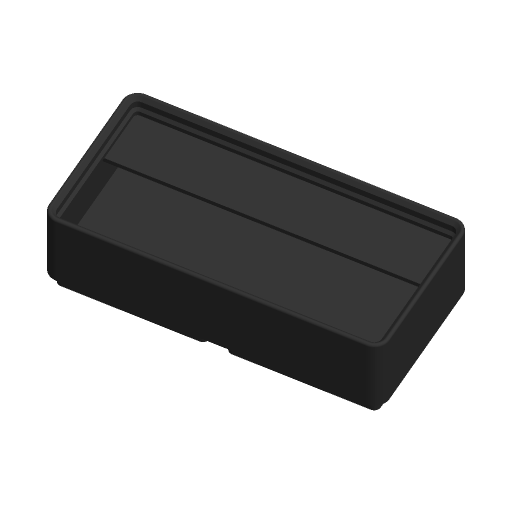
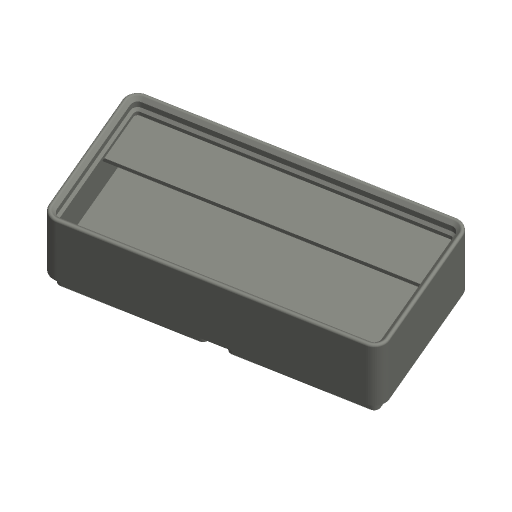
fix(models): gridfinity-bin fits the bed and shrinks long labels instead of clipping
- units_x/units_y went to 8 (335.5 mm), past the H2C's 300 x 320 mm
  two-nozzle area; cap at 7 (293.5 mm).
- A label longer than the character-count estimate was clipped at the tab
  edge (24 W's lost 6 letters). Fit it exactly with a shrink-only resize.
- Labelled dropdown options, mm on the wall caption, a mid-grey default so
  the catalogue thumbnail is not near-black.
- verify.sh: fails on OpenSCAD warnings, checks the bed fit, that the label
  stays on the tab and that a long label keeps every letter.

Claude-Session: https://claude.ai/code/session_01X17nidom5KxL41d2nZa3rs

diff --git a/models/gridfinity-bin/README.md b/models/gridfinity-bin/README.md
@@ -19,8 +19,8 @@ and in ScadBuddy.
 
 | Parameter | Default | What it does |
 |---|---|---|
-| `units_x` | `2` | Width in grid units, 1–8. The bin is `units_x × 42 − 0.5` mm wide. |
-| `units_y` | `1` | Depth in grid units, 1–8. The bin is `units_y × 42 − 0.5` mm deep. |
+| `units_x` | `2` | Width in grid units, 1–7 (7 units is 293.5 mm, the most that fits the H2C's 300 mm two-nozzle width). The bin is `units_x × 42 − 0.5` mm wide. |
+| `units_y` | `1` | Depth in grid units, 1–7. The bin is `units_y × 42 − 0.5` mm deep. |
 | `height_units` | `3` | Height in 7 mm units, 2–12, from the bottom of the feet to the top of the wall. The stacking lip adds 3.55 mm on top. |
 
 ### Features
@@ -42,14 +42,14 @@ and in ScadBuddy.
 | Parameter | Default | What it does |
 |---|---|---|
 | `label_text` | *(empty)* | Text inlaid 0.6 mm into the back-left label tab, up to 24 characters. Empty means no label part. |
-| `label_size` | `6` | Letter height in mm. A label that would not fit the tab is shrunk to fit (estimated from the character count); anything still too wide is clipped at the tab edge. |
+| `label_size` | `6` | Letter height in mm. A label too wide for the tab is shrunk uniformly until it fits; a short one is left at this size. |
 | `font` | `DejaVu Sans:style=Bold` | Typeface. ScadBuddy fills this dropdown from the fonts installed in the container (`// font`). |
 
 ### Colors
 
 | Parameter | Default | What it does |
 |---|---|---|
-| `bin_color` | `#3A3A3A` | The bin. |
+| `bin_color` | `#8E9089` | The bin. |
 | `label_color` | `#F2F2F2` | The inlaid label. |
 
 ## Colours and extruders
@@ -120,8 +120,8 @@ The whole bin is built without `minkowski`: rounded rectangles are
 `offset()`s of squares, the stepped foot profile is a stack of
 rounded-rectangle frustums written as polyhedra, and the lip is its 2D profile
 swept round the corners with `rotate_extrude` and along the sides with
-`linear_extrude`. An 8 × 8 × 12 ultralight bin with 64 compartments and
-magnets renders in about 1.6 s.
+`linear_extrude`. A 7 × 7 × 12 ultralight bin with 64 compartments and
+magnets renders in about 1.3 s.
 
 ## Verifying
 
@@ -129,20 +129,24 @@ magnets renders in about 1.6 s.
 ./verify.sh
 ```
 
-Renders the defaults and eight variations (label, divided, left tab, no tab,
-magnets + screws, ultralight, no lip at 1 × 1 × 2, and the 8 × 8 × 12 maximum)
+Renders the defaults and ten variations (label, divided, left tab, no tab,
+magnets + screws, ultralight, no lip at 1 × 1 × 2, the 7 × 7 × 12 maximum, and
+two labels too long for their tab)
 in `scadbuddy-verify:local`, building it from `openscad/openscad:dev` with the
 image's font packages when it is missing. For each render it checks:
 
+- no OpenSCAD warnings;
 - one non-empty material, or two when a label is expected, and nothing on
   `Default`;
 - the bounding box is exactly `units × 42 − 0.5` in X and Y and
   `height_units × 7` (+ 3.551 with the lip) in Z, sitting on z = 0;
 - the z = 0 footprint is `(n − 1) × 42 + 35.6` mm — the foot bottoms;
-- the label's exposed face is the tab top;
+- the bin fits the H2C bed (300 × 320 mm with both nozzles);
+- the label's exposed face is the tab top, it stays inside the tab's flat
+  top, and a long label keeps every letter (shrunk, never clipped);
 - magnet and screw holes are present at the right diameter, depth and
   position;
-- the 8 × 8 × 12 bin renders in under 60 s.
+- the 7 × 7 × 12 bin renders in under 60 s.
 
 It then drops a second default bin onto the first: 0.02 mm above the expected
 seat the two must not intersect, 0.1 mm below it they must.
